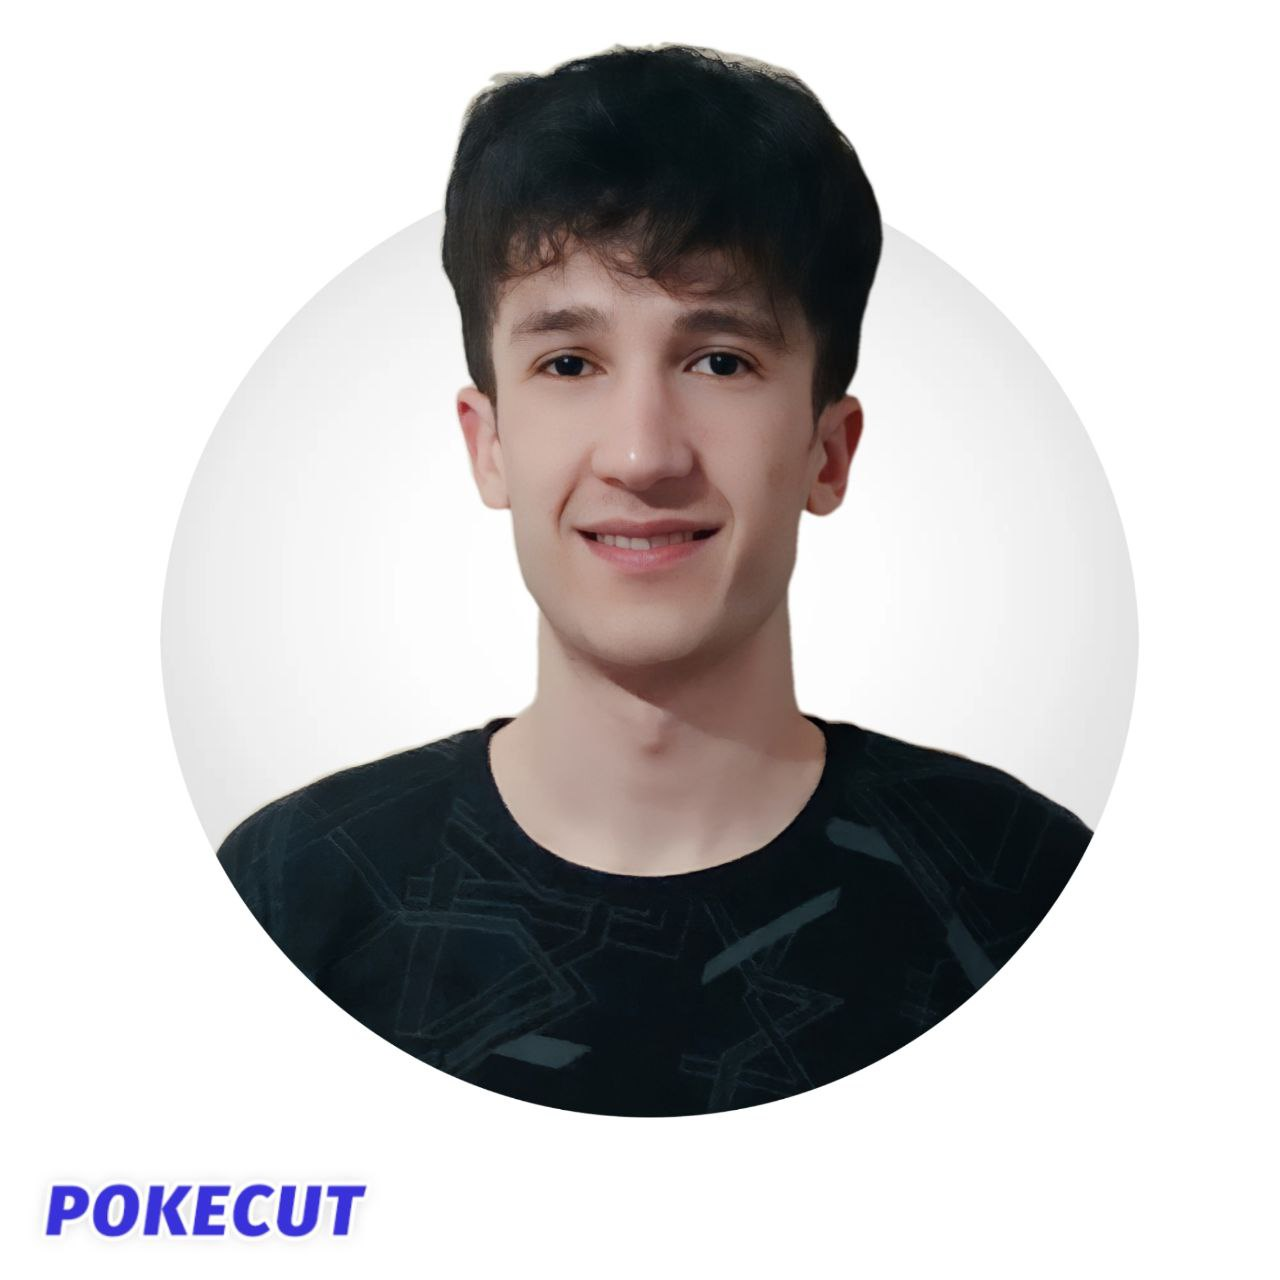
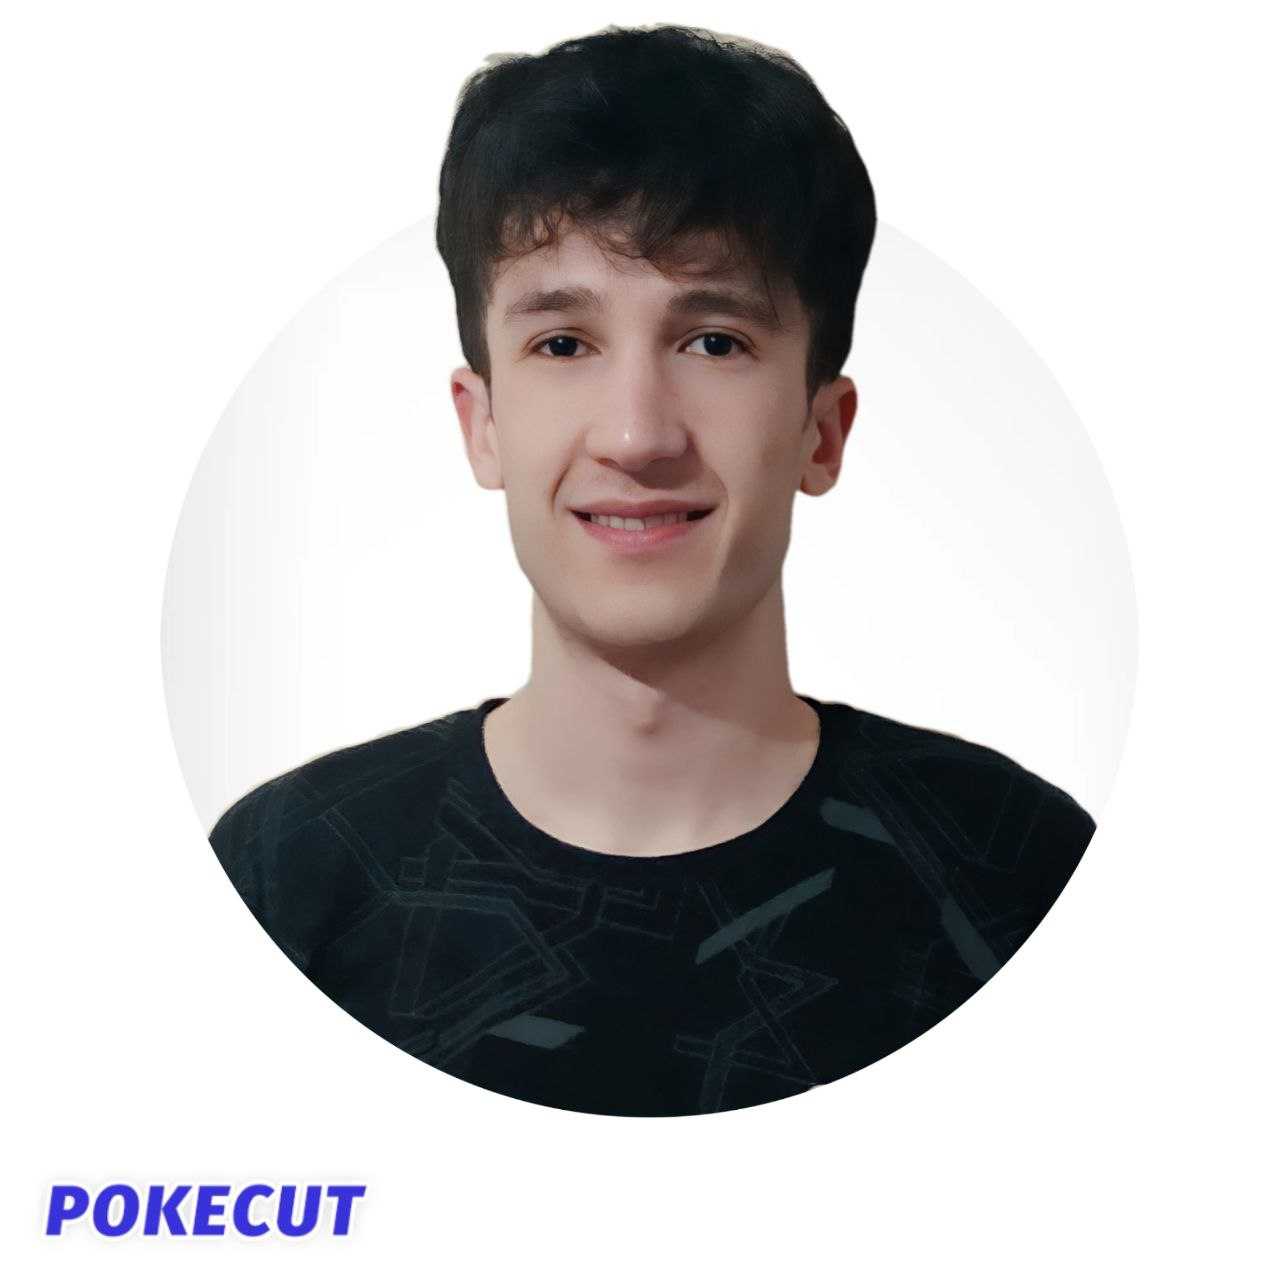
some fix and added services data

Changed region(s): [[0.1562, 0.0, 0.875, 0.7812], [0.375, 0.7812, 0.4688, 0.8438], [0.625, 0.0625, 0.6562, 0.0938]]

diff --git a/src/pages/Home/index.jsx b/src/pages/Home/index.jsx
@@ -6,8 +6,9 @@ import "slick-carousel/slick/slick-theme.css";
 import Button from '../../components/Button'
 import ServicesItem from './components/ServicesItem'
 import PortfolioItem from './components/PortfolioItem'
-import Me from "../../assets/me.jpg"
 import { MdOutlineArrowBackIos, MdOutlineArrowForwardIos } from 'react-icons/md'
+import Me from "../../assets/me.jpg"
+import { Services } from '../../data/Services';
 
 
 const Home = () => {
@@ -16,7 +17,6 @@ const Home = () => {
 
    let settings = {
       infinite: true,
-      // initialSlide: 0.5,
       speed: 600,
       slidesToShow: 3,
       slidesToScroll: 1,
@@ -39,8 +39,6 @@ const Home = () => {
          }
       ]
    };
-
-   // console.log(myRef.current.slickNext);
 
    return (
       <div className='home-page'>
@@ -79,31 +77,9 @@ const Home = () => {
                <div className="items">
 
                   {/* item components */}
-                  <ServicesItem
-                     delay="0"
-                     src="https://assets.website-files.com/61129bb2ecedf803564c68ec/6112ae8b813c8f4ed9b43594_service-1-personal-x-template.svg"
-                     title="HTML&CSS Responsive Web Design"
-                     content="Lorem ipsum dolor sit amet, consectetur adipiscing elit. Ut iaculis viverra mollis nisl dole dolorili tincidunt. Integer eget vitae id tortor."
-                  />
-                  <ServicesItem
-                     delay="150"
-                     src="https://assets.website-files.com/61129bb2ecedf803564c68ec/6112ae8b8dd274078a715c01_service-2-personal-x-template.svg"
-                     title="Javascript Development"
-                     content="Lorem ipsum dolor sit amet, consectetur adipiscing elit. Ut iaculis viverra mollis nisl dole dolorili tincidunt. Integer eget vitae id tortor."
-                  />
-                  <ServicesItem
-                     delay="50"
-                     src="https://assets.website-files.com/61129bb2ecedf803564c68ec/6112ae8b908a1cfb9816fd8c_service-3-personal-x-template.svg"
-                     title="React JS Development"
-                     content="Lorem ipsum dolor sit amet, consectetur adipiscing elit. Ut iaculis viverra mollis nisl dole dolorili tincidunt. Integer eget vitae id tortor."
-                  />
-                  <ServicesItem
-                     delay="200"
-                     src="https://assets.website-files.com/61129bb2ecedf803564c68ec/6112ae8b7c74be889e7f3156_service-4-personal-x-template.svg"
-                     title="Node.js Development (basic)"
-                     content="Lorem ipsum dolor sit amet, consectetur adipiscing elit. Ut iaculis viverra mollis nisl dole dolorili tincidunt. Integer eget vitae id tortor."
-                  />
-
+                  {Services.map((item, i) =>(
+                     <ServicesItem key={i} {...item} />
+                  ))}
                </div>
 
                {/* button component */}

diff --git a/src/data/Services.js b/src/data/Services.js
@@ -1,0 +1,26 @@
+export const Services = [
+   {
+      delay: "0",
+      src: "https://assets.website-files.com/61129bb2ecedf803564c68ec/6112ae8b813c8f4ed9b43594_service-1-personal-x-template.svg",
+      title: "HTML&CSS Responsive Web Design",
+      content: "Lorem ipsum dolor sit amet, consectetur adipiscing elit. Ut iaculis viverra mollis nisl dole dolorili tincidunt. Integer eget vitae id tortor."
+   },
+   {
+      delay: "150",
+      src: "https://assets.website-files.com/61129bb2ecedf803564c68ec/6112ae8b8dd274078a715c01_service-2-personal-x-template.svg",
+      title: "Javascript Development",
+      content: "Lorem ipsum dolor sit amet, consectetur adipiscing elit. Ut iaculis viverra mollis nisl dole dolorili tincidunt. Integer eget vitae id tortor."
+   },
+   {
+      delay: "50",
+      src: "https://assets.website-files.com/61129bb2ecedf803564c68ec/6112ae8b908a1cfb9816fd8c_service-3-personal-x-template.svg",
+      title: "React JS Development",
+      content: "Lorem ipsum dolor sit amet, consectetur adipiscing elit. Ut iaculis viverra mollis nisl dole dolorili tincidunt. Integer eget vitae id tortor."
+   },
+   {
+      delay: "200",
+      src: "https://assets.website-files.com/61129bb2ecedf803564c68ec/6112ae8b7c74be889e7f3156_service-4-personal-x-template.svg",
+      title: "Node.js Development (basic)",
+      content: "Lorem ipsum dolor sit amet, consectetur adipiscing elit. Ut iaculis viverra mollis nisl dole dolorili tincidunt. Integer eget vitae id tortor."
+   },
+]

diff --git a/src/pages/Contact/components/FaqItem.jsx b/src/pages/Contact/components/FaqItem.jsx
@@ -1,7 +1,7 @@
 import React, { useState } from 'react'
 import "./styles/FaqItem.scss"
 
-const FaqItem = ({ item, i }) => {
+const FaqItem = ({ title, content, i }) => {
    const [selected, setSelected] = useState(null)
 
    const toggle = i => {
@@ -19,8 +19,8 @@ const FaqItem = ({ item, i }) => {
             <span></span>
          </div>
          <div className="faq-item-content">
-            <h3 className='h3-size'>{item.title}</h3>
-            <p className={`paragraph content ${selected === i && 'show'}`}>{item.content}</p>
+            <h3 className='h3-size'>{title}</h3>
+            <p className={`paragraph content ${selected === i && 'show'}`}>{content}</p>
          </div>
       </div>
    )

diff --git a/src/pages/Home/style.scss b/src/pages/Home/style.scss
@@ -89,16 +89,15 @@
       border-radius: 50%;
       overflow: hidden;
 
-
       img {
          border-radius: inherit;
-         transform: scale(1.18);
+         transform: scale(1.16);
          position: relative;
-         top: 40px;
+         top: 35px;
       }
 
       @include tablet {
-         max-width: 472px;
+         max-width: 505px;
       }
    }
 }

diff --git a/src/pages/Contact/index.jsx b/src/pages/Contact/index.jsx
@@ -109,7 +109,7 @@ const Contact = () => {
 
                <div className="faq-items">
                   {Faq.map((item, i) => (
-                     <FaqItem key={i} item={item} i={i} />
+                     <FaqItem key={i} {...item} i={i} />
                   ))}
 
                </div>
